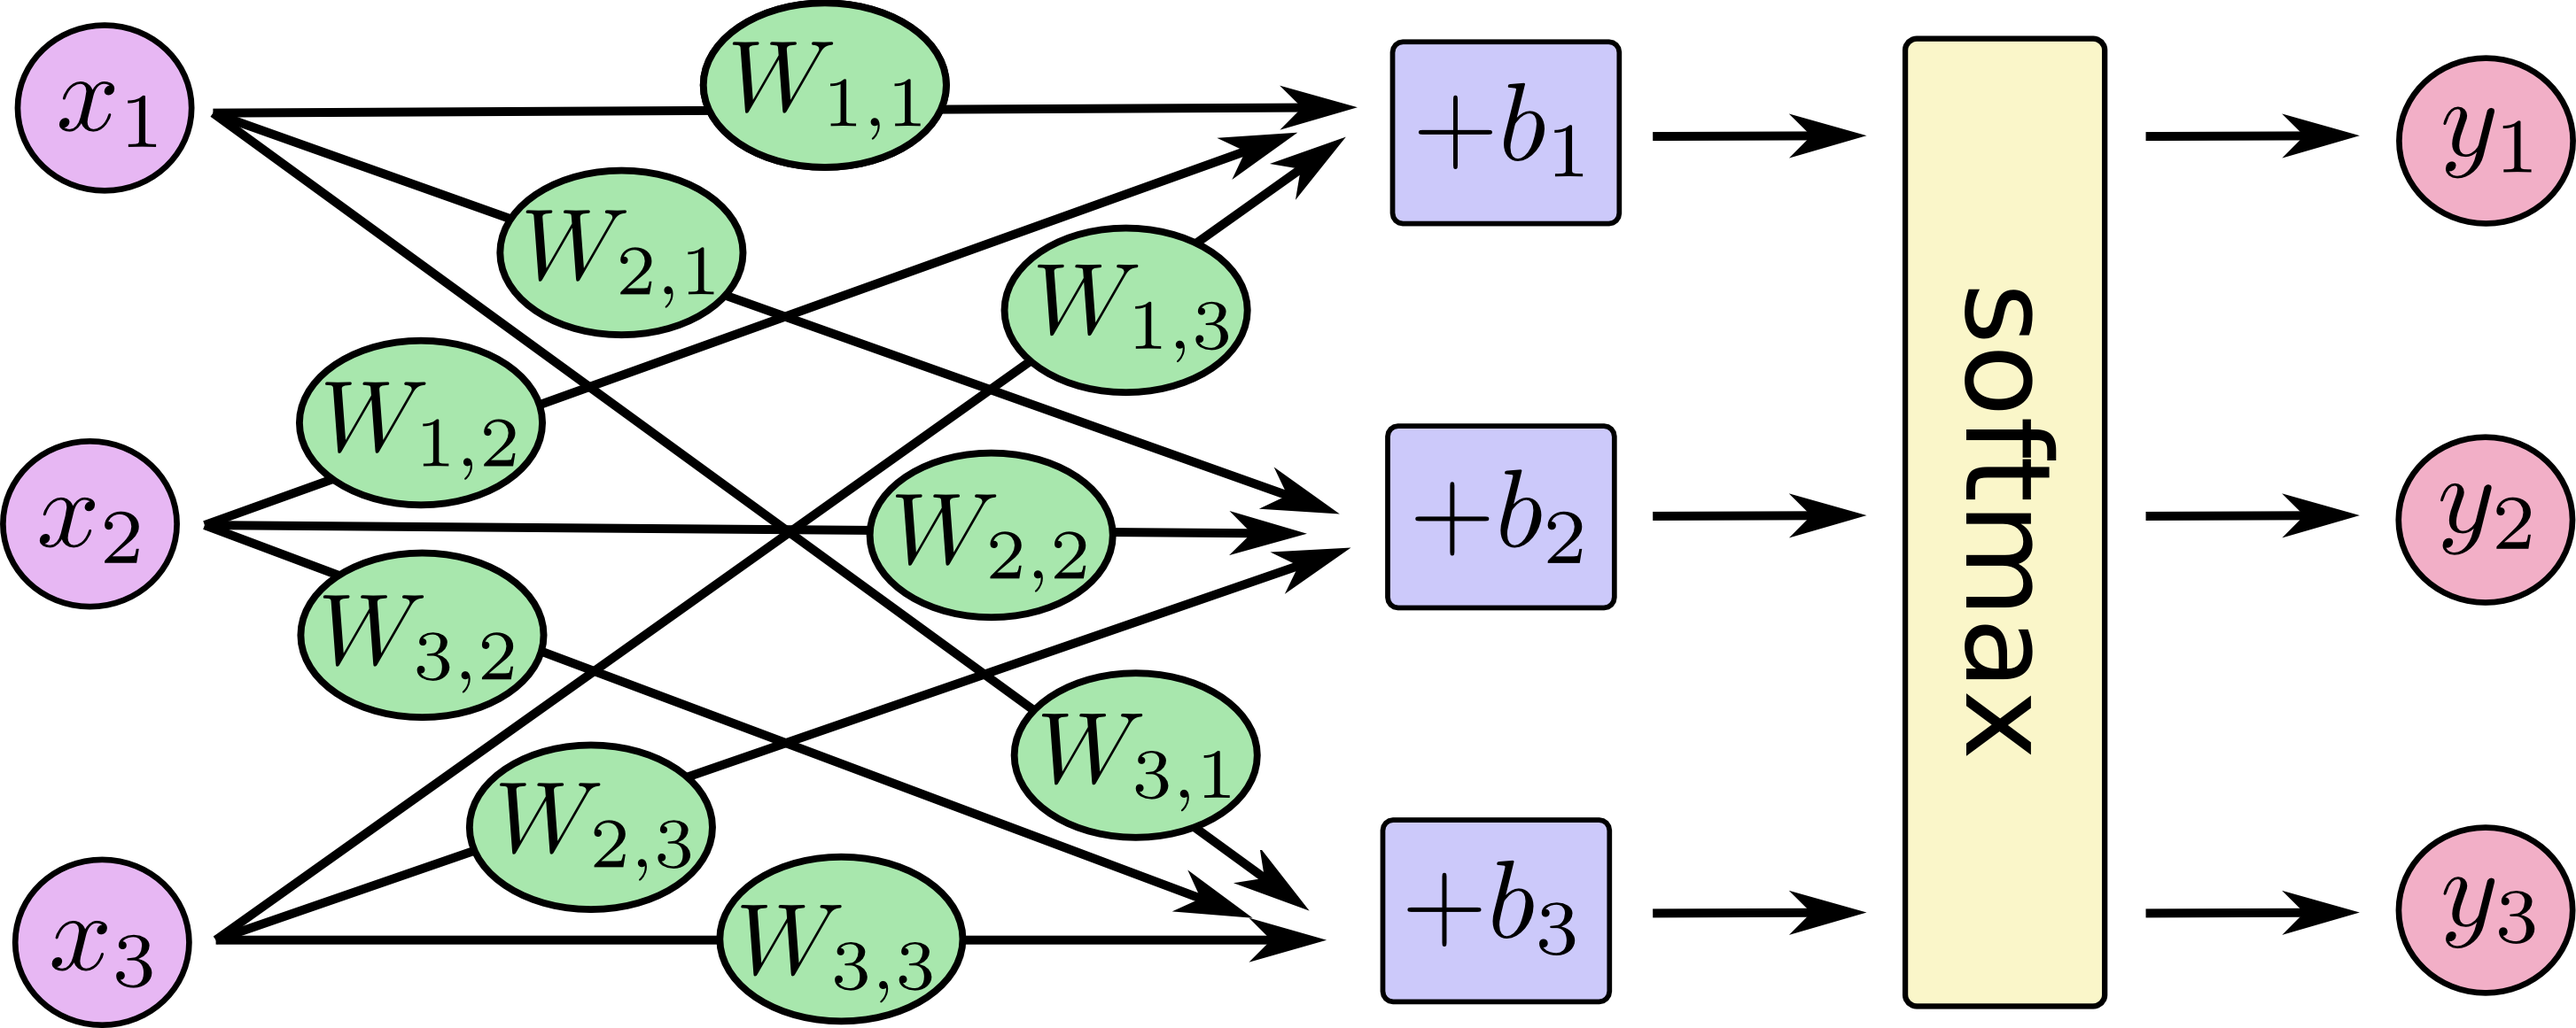
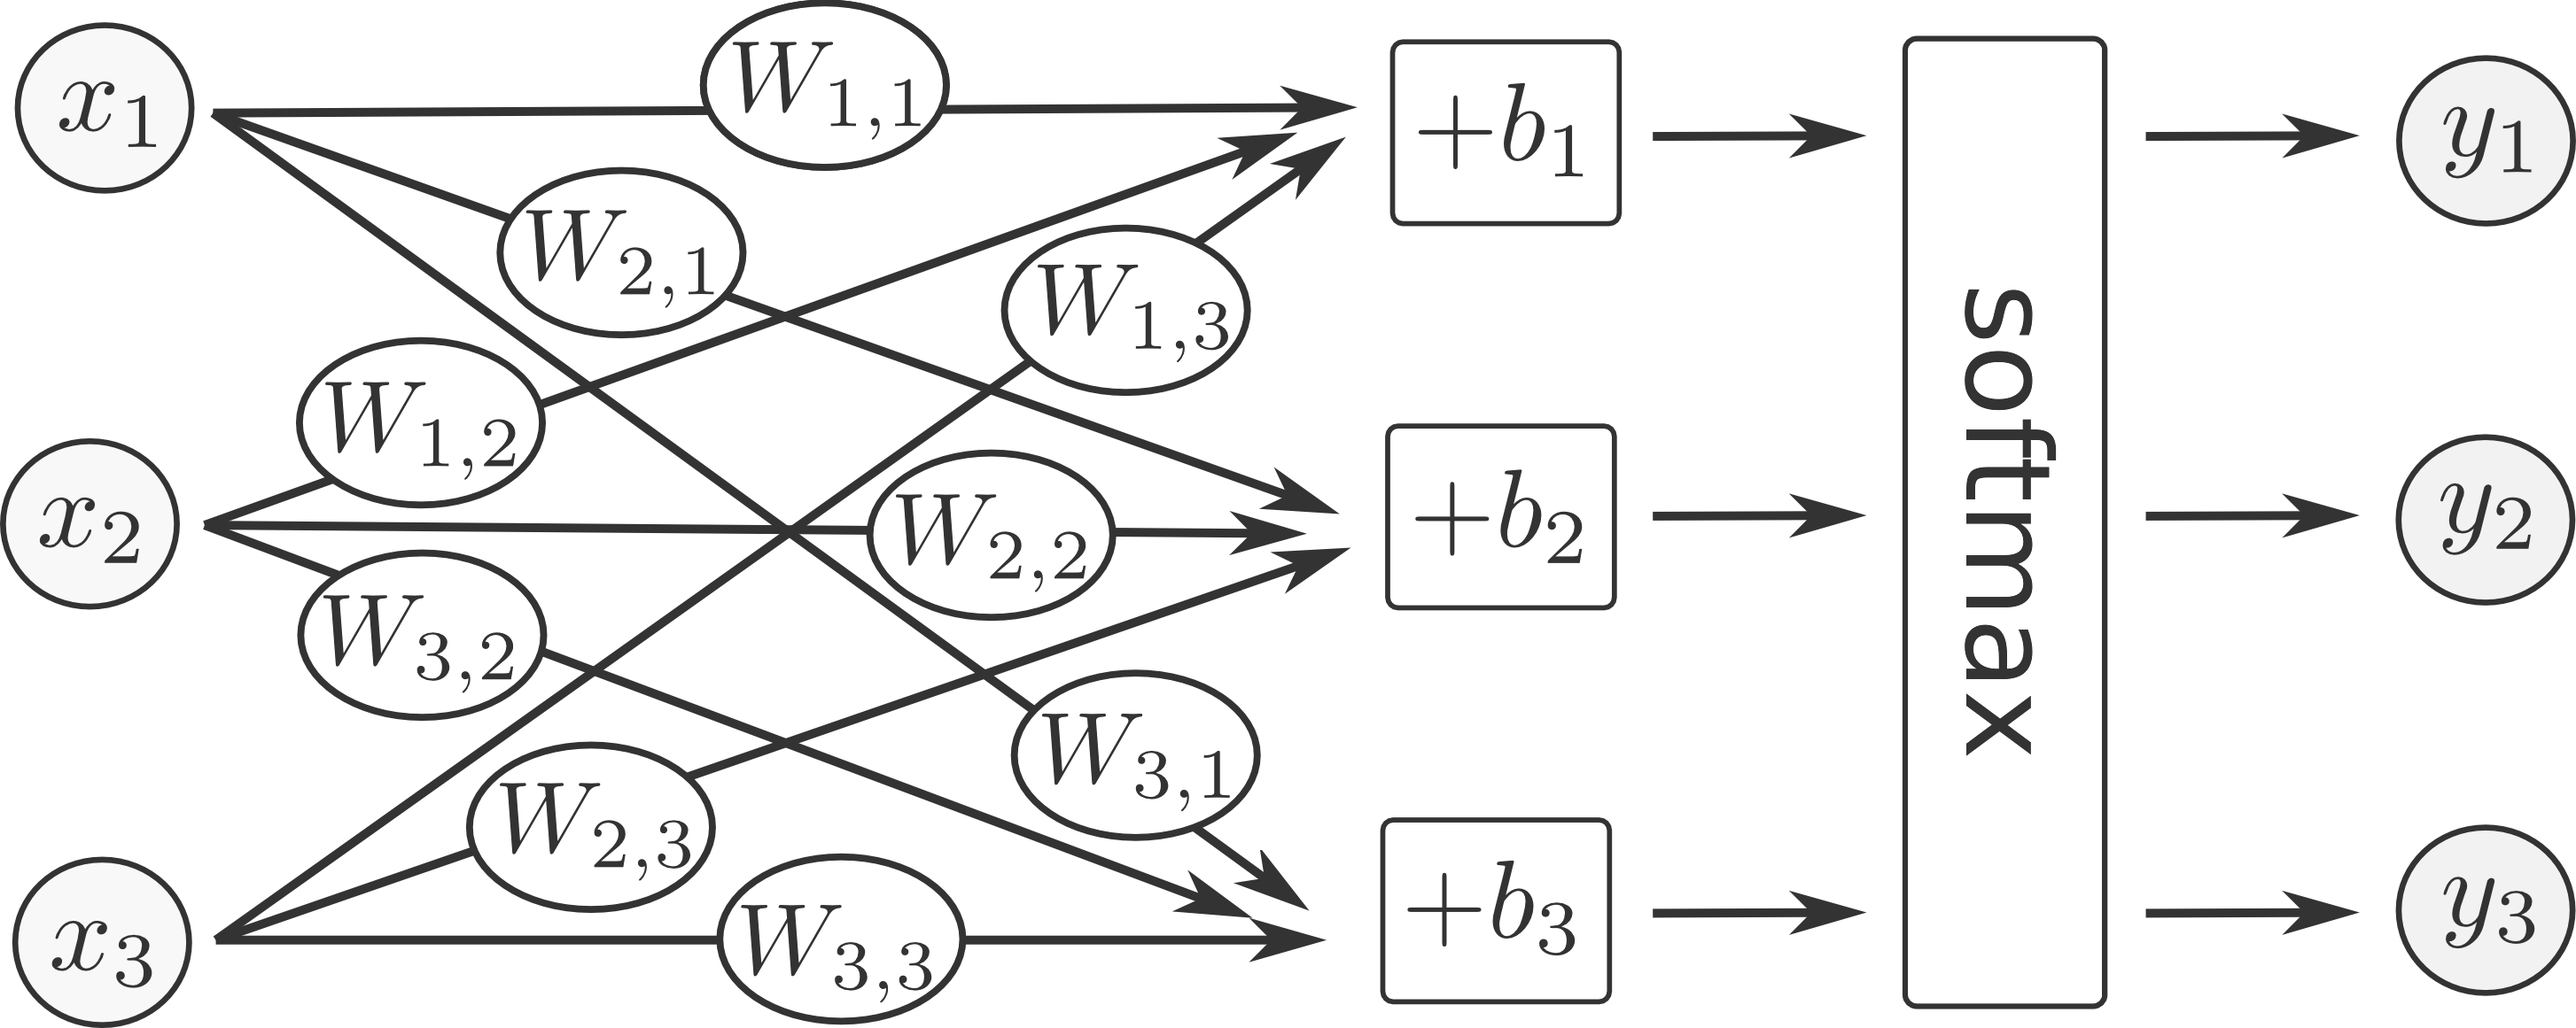
Add plots, b&w model graph

diff --git a/doc/Paper.tex b/doc/Paper.tex
@@ -133,8 +133,8 @@ TODO
 \paragraph{Evaluation}
 TODO
 
+\begin{center}
 \begin{tikzpicture}
-\centering
 \begin{axis} [
   title={Training performance},
   xlabel={Epoch},
@@ -144,20 +144,26 @@ TODO
   xtick={0,25,50,75,100},
   ytick={0,25,50,75,100},
   legend pos=south east,
+  axis line style={black!65, line width=.1pt}, % thinner frame border
+  legend style={draw=black!50, line width=.1pt}, % thinner frame border
+  every x tick/.style={white}, % hide x ticks (make them white)
+  every y tick/.style={white}, % hide y ticks (make them white)
+  every axis plot/.append style={thick},
 ]
 
 \addplot[]
   coordinates {
   (0,25)(25,65)(50,90)(100,95)
   };
-\addplot[dashed]
+\addplot[dash pattern=on 6pt off 4pt]
   coordinates {
   (0,25)(25,50)(50,80)(100,90)
   };
   
-\legend{train set, test set}
+\legend{train, test}
 \end{axis}
 \end{tikzpicture}
+\end{center}
 
 
 
@@ -168,6 +174,33 @@ Parallelism is needed in the training phase of the model, as prediction happens 
 TODO: talk about matrix multiplication overhead
 
 TODO: graph of train time vs nr of processors
+
+\begin{center}
+\begin{tikzpicture}
+\begin{axis}[
+  title={Time performance},
+  xlabel=Processes,
+  ylabel=Seconds,
+  bar width=.8cm,
+  axis line style={black!65, line width=.1pt}, % thinner border
+  symbolic x coords={1,2,4,6,8,12,16}, % equidistant bars
+  every x tick/.style={white}, % hide x ticks (make them white)
+  every y tick/.style={line width=.1pt, draw=gray!10}, % y ticks same color as grid
+  ymajorgrids=true, % show horizontal grid lines
+  grid style={line width=.1pt, draw=gray!10}, % gray grid lines
+  ]
+  \addplot[ybar, black!40, fill=black!20] coordinates {
+      (1,8) 
+      (2,5)
+      (4,4) 
+      (6,3) 
+      (8,2.5) 
+      (12,2) 
+      (16,1.5)    
+      };
+\end{axis}
+\end{tikzpicture}
+\end{center}
 
 
 
